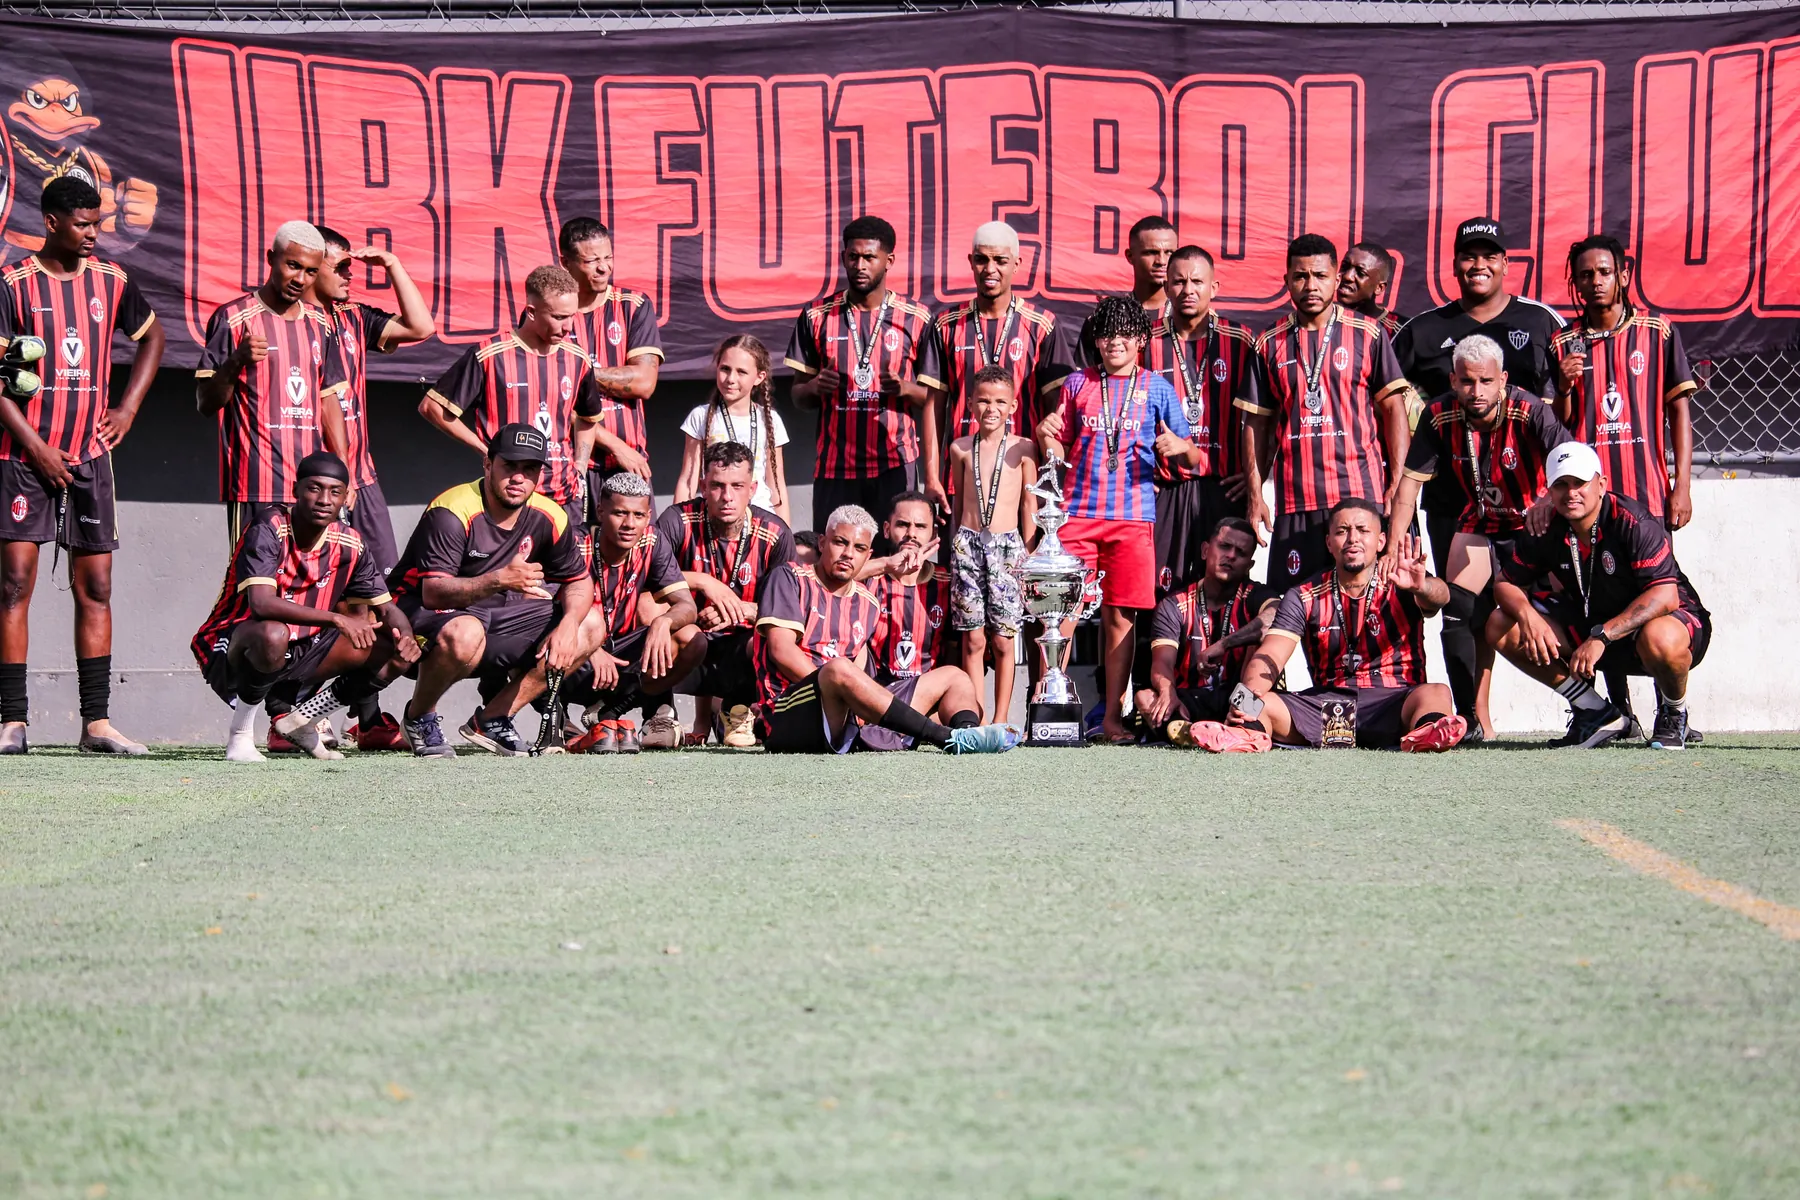
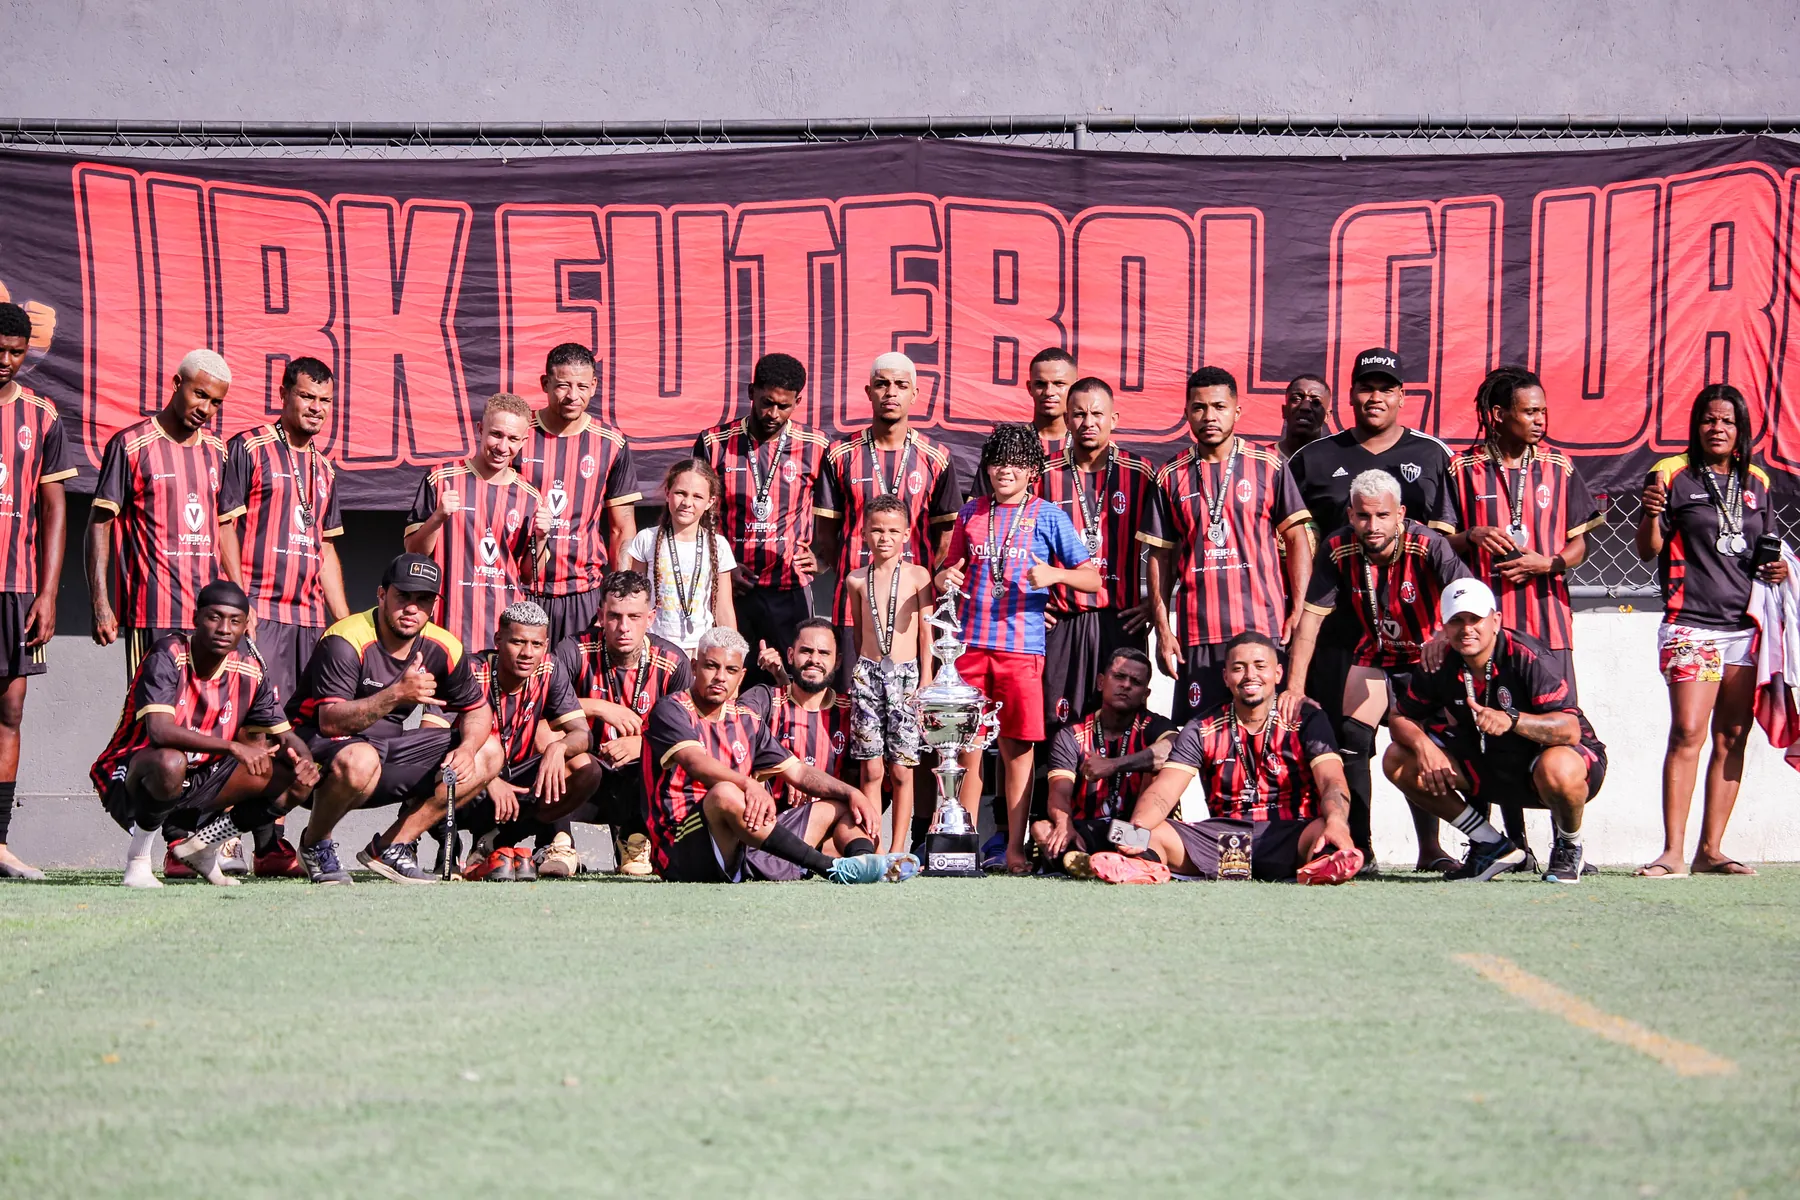
Troca fotos de time por versões com todos enquadrados
Guerreiros BDI (IMG_1322), IBK Futebol Clube (IMG_1289) e Cassino FC (_MG_0277).

Claude-Session: https://claude.ai/code/session_0117rLKcUJe5WPdxftAvhTCy

diff --git a/index.html b/index.html
@@ -331,7 +331,7 @@
             <figcaption><span>Futebol & futsal</span><strong>Detalhe de beira de campo</strong></figcaption>
           </figure>
           <figure class="work work--wide" data-cat="futebol" data-title="IBK Futebol Clube" data-cursor="Ver">
-            <img src="assets/img/portfolio/copa-prime-ibk.webp" alt="Elenco do IBK Futebol Clube posado com o troféu e medalhas" loading="lazy" decoding="async">
+            <img src="assets/img/portfolio/copa-prime-ibk.webp" alt="Elenco do IBK Futebol Clube posado com o troféu sob a faixa do time" loading="lazy" decoding="async">
             <figcaption><span>Futebol & futsal</span><strong>IBK Futebol Clube</strong></figcaption>
           </figure>
           <figure class="work work--tall" data-cat="formatura" data-title="Formandos 2026" data-cursor="Ver">
